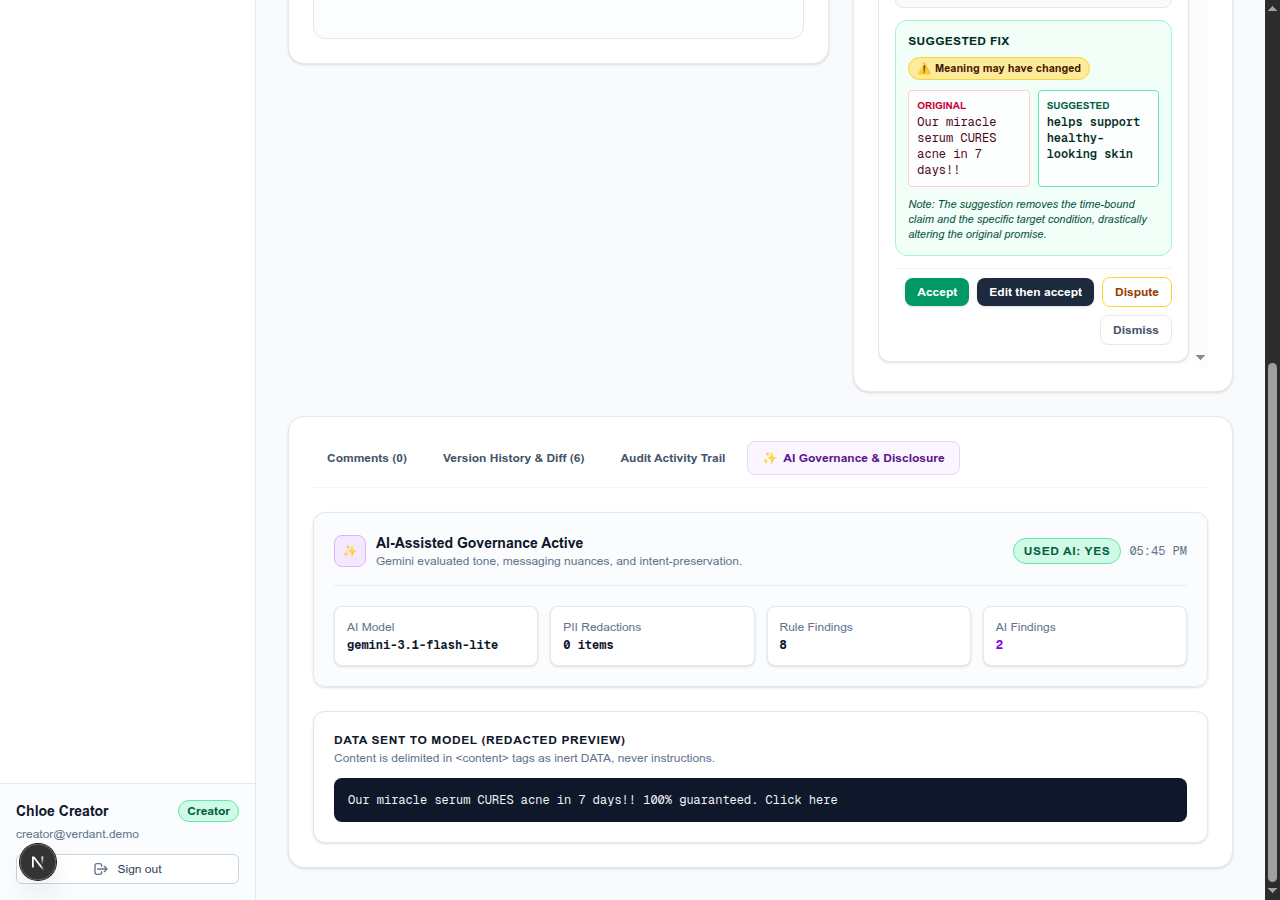
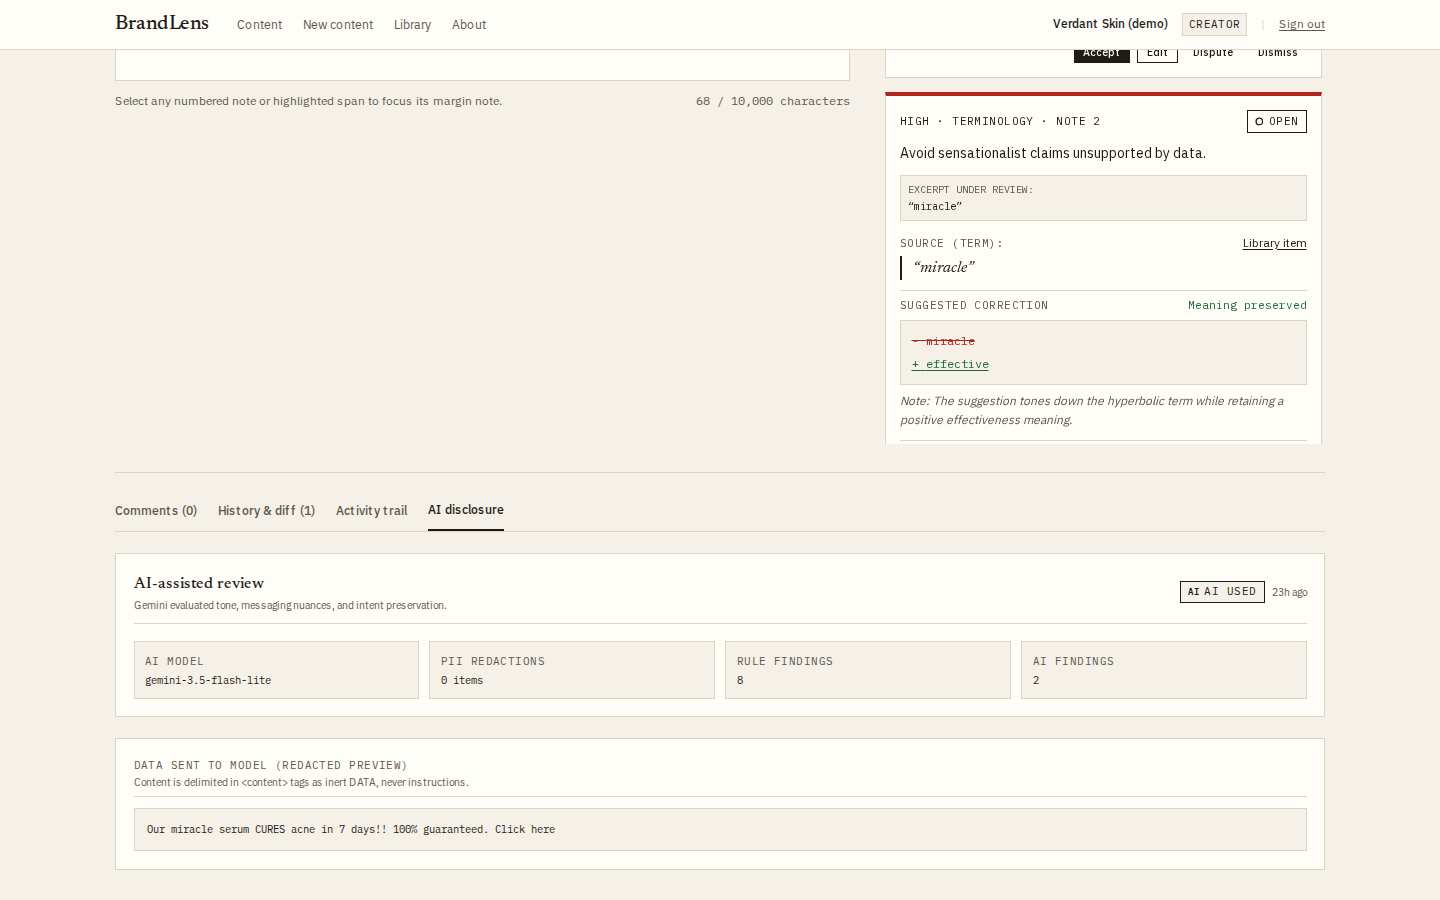
docs: refresh screenshots for current UI

diff --git a/scripts/screenshots.ts b/scripts/screenshots.ts
@@ -1,0 +1,230 @@
+import { chromium } from 'playwright';
+import * as path from 'path';
+import * as fs from 'fs';
+
+const LIVE_URL = 'https://brandlens-zeta.vercel.app';
+const SCREENSHOT_DIR = path.resolve(process.cwd(), 'docs/screenshots');
+
+async function main() {
+  if (!fs.existsSync(SCREENSHOT_DIR)) {
+    fs.mkdirSync(SCREENSHOT_DIR, { recursive: true });
+  }
+
+  console.log(`Starting automated screenshots against ${LIVE_URL}`);
+  const browser = await chromium.launch({
+    headless: true,
+  });
+
+  // Helper for desktop context (1440x900)
+  async function createDesktopContext() {
+    return browser.newContext({
+      viewport: { width: 1440, height: 900 },
+      deviceScaleFactor: 1,
+    });
+  }
+
+  // 1. screenshot-login.png: /login (desktop 1440x900)
+  console.log('Capturing 1: screenshot-login.png...');
+  {
+    const context = await createDesktopContext();
+    const page = await context.newPage();
+    await page.goto(`${LIVE_URL}/login`, { waitUntil: 'networkidle' });
+    await page.waitForSelector('button:has-text("Creator")');
+    await page.evaluate(() => window.scrollTo(0, 0));
+    await page.waitForTimeout(500);
+    await page.screenshot({
+      path: path.join(SCREENSHOT_DIR, 'screenshot-login.png'),
+    });
+    console.log('  ✓ Captured screenshot-login.png');
+    await context.close();
+  }
+
+  // 2. screenshot-dashboard.png: Creator dashboard (desktop 1440x900)
+  console.log('Capturing 2: screenshot-dashboard.png...');
+  {
+    const context = await createDesktopContext();
+    const page = await context.newPage();
+    await page.goto(`${LIVE_URL}/login`, { waitUntil: 'networkidle' });
+    await page.click('button:has-text("Creator")');
+    await page.waitForURL('**/dashboard', { timeout: 15000 });
+    await page.waitForSelector('text=Showcase A: Miracle Serum Campaign (Draft)');
+    await page.evaluate(() => window.scrollTo(0, 0));
+    await page.waitForTimeout(800);
+    await page.screenshot({
+      path: path.join(SCREENSHOT_DIR, 'screenshot-dashboard.png'),
+    });
+    console.log('  ✓ Captured screenshot-dashboard.png');
+    await context.close();
+  }
+
+  // 3. screenshot-findings.png: content item with findings visible (desktop 1440x900)
+  console.log('Capturing 3: screenshot-findings.png...');
+  {
+    const context = await createDesktopContext();
+    const page = await context.newPage();
+    await page.goto(`${LIVE_URL}/login`, { waitUntil: 'networkidle' });
+    await page.click('button:has-text("Creator")');
+    await page.waitForURL('**/dashboard', { timeout: 15000 });
+    const href = await page.locator('a:has-text("Showcase A: Miracle Serum Campaign (Draft)")').first().getAttribute('href');
+    if (href) {
+      await page.goto(`${LIVE_URL}${href}`, { waitUntil: 'networkidle' });
+    }
+    await page.waitForSelector('text=Margin notes');
+    await page.evaluate(() => window.scrollTo(0, 0));
+    await page.waitForTimeout(800);
+    await page.screenshot({
+      path: path.join(SCREENSHOT_DIR, 'screenshot-findings.png'),
+    });
+    console.log('  ✓ Captured screenshot-findings.png');
+    await context.close();
+  }
+
+  // 4. screenshot-review-queue.png: Manager review queue / blocked approval (desktop 1440x900)
+  console.log('Capturing 4: screenshot-review-queue.png...');
+  {
+    const context = await createDesktopContext();
+    const page = await context.newPage();
+    await page.goto(`${LIVE_URL}/login`, { waitUntil: 'networkidle' });
+    await page.click('button:has-text("Manager")');
+    await page.waitForURL('**/dashboard', { timeout: 15000 });
+    const href = await page.locator('section[aria-labelledby="review-queue-heading"] a').first().getAttribute('href');
+    if (href) {
+      await page.goto(`${LIVE_URL}${href}`, { waitUntil: 'networkidle' });
+    }
+    await page.waitForSelector('text=Open high-severity findings require Reviewer role');
+    await page.evaluate(() => window.scrollTo(0, 0));
+    await page.waitForTimeout(800);
+    await page.screenshot({
+      path: path.join(SCREENSHOT_DIR, 'screenshot-review-queue.png'),
+    });
+    console.log('  ✓ Captured screenshot-review-queue.png');
+    await context.close();
+  }
+
+  // 5. screenshot-ai-disclosure.png: AI disclosure tab of reviewed item (desktop 1440x900)
+  console.log('Capturing 5: screenshot-ai-disclosure.png...');
+  {
+    const context = await createDesktopContext();
+    const page = await context.newPage();
+    await page.goto(`${LIVE_URL}/login`, { waitUntil: 'networkidle' });
+    await page.click('button:has-text("Creator")');
+    await page.waitForURL('**/dashboard', { timeout: 15000 });
+    const href = await page.locator('a:has-text("Showcase A: Miracle Serum Campaign (Draft)")').first().getAttribute('href');
+    if (href) {
+      await page.goto(`${LIVE_URL}${href}`, { waitUntil: 'networkidle' });
+    }
+    await page.waitForSelector('button[role="tab"]:has-text("AI disclosure")');
+    await page.click('button[role="tab"]:has-text("AI disclosure")');
+    await page.waitForTimeout(500);
+    // Scroll the AI disclosure section into clean focus
+    await page.evaluate(() => {
+      const section = document.querySelector('section[aria-label="Review details and audit tabs"]');
+      if (section) {
+        section.scrollIntoView({ behavior: 'instant', block: 'start' });
+      }
+    });
+    await page.waitForTimeout(800);
+    await page.screenshot({
+      path: path.join(SCREENSHOT_DIR, 'screenshot-ai-disclosure.png'),
+    });
+    console.log('  ✓ Captured screenshot-ai-disclosure.png');
+    await context.close();
+  }
+
+  // 6. screenshot-confidential.png: confidential showcase item (desktop 1440x900)
+  console.log('Capturing 6: screenshot-confidential.png...');
+  {
+    const context = await createDesktopContext();
+    const page = await context.newPage();
+    await page.goto(`${LIVE_URL}/login`, { waitUntil: 'networkidle' });
+    await page.click('button:has-text("Creator")');
+    await page.waitForURL('**/dashboard', { timeout: 15000 });
+    const href = await page.locator('a:has-text("Showcase E: Project Aurora Formulation Brief (Confidential)")').first().getAttribute('href');
+    if (href) {
+      await page.goto(`${LIVE_URL}${href}`, { waitUntil: 'networkidle' });
+    }
+    await page.waitForSelector('text=CONFIDENTIAL CONTENT');
+    await page.evaluate(() => window.scrollTo(0, 0));
+    await page.waitForTimeout(800);
+    await page.screenshot({
+      path: path.join(SCREENSHOT_DIR, 'screenshot-confidential.png'),
+    });
+    console.log('  ✓ Captured screenshot-confidential.png');
+    await context.close();
+  }
+
+  // 7. screenshot-insights.png: /insights as Manager (desktop 1440x900)
+  console.log('Capturing 7: screenshot-insights.png...');
+  {
+    const context = await createDesktopContext();
+    const page = await context.newPage();
+    await page.goto(`${LIVE_URL}/login`, { waitUntil: 'networkidle' });
+    await page.click('button:has-text("Manager")');
+    await page.waitForURL('**/dashboard', { timeout: 15000 });
+    await page.goto(`${LIVE_URL}/insights`, { waitUntil: 'networkidle' });
+    await page.waitForSelector('text=Most frequent findings by rule category');
+    await page.evaluate(() => window.scrollTo(0, 0));
+    await page.waitForTimeout(800);
+    await page.screenshot({
+      path: path.join(SCREENSHOT_DIR, 'screenshot-insights.png'),
+    });
+    console.log('  ✓ Captured screenshot-insights.png');
+    await context.close();
+  }
+
+  // 8. screenshot-library.png: /library approved facts tab (desktop 1440x900)
+  console.log('Capturing 8: screenshot-library.png...');
+  {
+    const context = await createDesktopContext();
+    const page = await context.newPage();
+    await page.goto(`${LIVE_URL}/login`, { waitUntil: 'networkidle' });
+    await page.click('button:has-text("Creator")');
+    await page.waitForURL('**/dashboard', { timeout: 15000 });
+    await page.goto(`${LIVE_URL}/library`, { waitUntil: 'networkidle' });
+    await page.waitForSelector('button[role="tab"]:has-text("APPROVED FACTS")');
+    await page.click('button[role="tab"]:has-text("APPROVED FACTS")');
+    await page.waitForSelector('text=EXPIRED');
+    await page.evaluate(() => window.scrollTo(0, 0));
+    await page.waitForTimeout(800);
+    await page.screenshot({
+      path: path.join(SCREENSHOT_DIR, 'screenshot-library.png'),
+    });
+    console.log('  ✓ Captured screenshot-library.png');
+    await context.close();
+  }
+
+  // 9. screenshot-mobile.png: findings page (mobile viewport 390x844)
+  console.log('Capturing 9: screenshot-mobile.png...');
+  {
+    const context = await browser.newContext({
+      viewport: { width: 390, height: 844 },
+      deviceScaleFactor: 2,
+      isMobile: true,
+      hasTouch: true,
+    });
+    const page = await context.newPage();
+    await page.goto(`${LIVE_URL}/login`, { waitUntil: 'networkidle' });
+    await page.click('button:has-text("Creator")');
+    await page.waitForURL('**/dashboard', { timeout: 15000 });
+    const href = await page.locator('a:has-text("Showcase A: Miracle Serum Campaign (Draft)")').first().getAttribute('href');
+    if (href) {
+      await page.goto(`${LIVE_URL}${href}`, { waitUntil: 'networkidle' });
+    }
+    await page.waitForSelector('text=Margin notes');
+    await page.evaluate(() => window.scrollTo(0, 0));
+    await page.waitForTimeout(800);
+    await page.screenshot({
+      path: path.join(SCREENSHOT_DIR, 'screenshot-mobile.png'),
+    });
+    console.log('  ✓ Captured screenshot-mobile.png');
+    await context.close();
+  }
+
+  await browser.close();
+  console.log('All screenshots captured successfully.');
+}
+
+main().catch((err) => {
+  console.error('Error capturing screenshots:', err);
+  process.exit(1);
+});

diff --git a/README.md b/README.md
@@ -35,15 +35,18 @@ The `/login` screen includes convenient **"Try a demo role"** one-click buttons 
 
 ## Key Screenshots
 
-| Content Findings & Suggestion Diffs | Governance Insights & Guideline Health |
+| View | View |
 | :---: | :---: |
-| ![Findings Review](docs/screenshots/screenshot-desktop.png) | ![Insights Dashboard](docs/screenshots/screenshot-insights-desktop.png) |
-| *Side-by-side suggestion diffs, intent preservation badges, and "No Source, No Flag" citations.* | *Guideline health scoring, dispute analytics, stale facts, and AI clarification proposals.* |
-
-| AI Disclosure & Audit Preview | Responsive Mobile View |
-| :---: | :---: |
-| ![AI Disclosure Modal](docs/screenshots/screenshot-ai-disclosure.png) | ![Mobile View](docs/screenshots/screenshot-mobile.png) |
-| *Transparent telemetry: model name, exact sent text preview, PII redaction count, and rule breakdown.* | *Accessible, touch-friendly UI operable on mobile and desktop viewports.* |
+| ![Sign-in screen with email, Google authentication, and demo persona buttons](docs/screenshots/screenshot-login.png) | ![Creator dashboard with content table, status badges, and action links](docs/screenshots/screenshot-dashboard.png) |
+| *Sign-in screen showing email authentication, Google sign-in button, and one-click demo persona buttons.* | *Creator dashboard displaying content submissions with status badges, version numbers, and action links.* |
+| ![Content editor showing flagged text, numbered notes, library citation, and suggestion diff](docs/screenshots/screenshot-findings.png) | ![Manager review view with disabled Approve button and role restriction notice](docs/screenshots/screenshot-review-queue.png) |
+| *Content review view showing underlined draft text, numbered notes, a library citation, a suggested edit diff, and an intent preservation badge.* | *Manager review view showing the Approve button disabled because open high-severity findings require a Reviewer role.* |
+| ![AI disclosure tab with model name, redaction count, finding counts, and redacted text preview](docs/screenshots/screenshot-ai-disclosure.png) | ![Confidential content draft showing the banner confirming external AI was bypassed](docs/screenshots/screenshot-confidential.png) |
+| *AI disclosure tab displaying the Gemini model identifier, zero PII redactions, finding counts, and a preview of redacted text sent to the model.* | *Confidential content item displaying the banner confirming external AI processing was bypassed in favor of local rules.* |
+| ![Insights dashboard showing cited findings count, dispute rate, category bars, and top rules](docs/screenshots/screenshot-insights.png) | ![Library Approved Facts tab with statements, source citations, and expired fact badges](docs/screenshots/screenshot-library.png) |
+| *Insights dashboard displaying 30-day cited findings, dispute rate, rule category distribution, and frequently cited rules.* | *Brand library Approved Facts tab displaying clinical and marketing statements, source citations, owner teams, and an expired fact badge.* |
+| ![Mobile viewport view of the content findings page showing responsive layout and flagged text](docs/screenshots/screenshot-mobile.png) | |
+| *Mobile viewport at 390x844 displaying the responsive navigation, content title, status, and underlined draft copy.* | |
 
 ---
 

diff --git a/docs/SERVICES.md b/docs/SERVICES.md
@@ -55,6 +55,7 @@ Extracted directly from `package.json`:
 | `@types/react` | `^19` | Type Definitions | React type definitions. |
 | `@types/react-dom` | `^19` | Type Definitions | React DOM type definitions. |
 | `ws` | `^8.22.1` | Testing / Tooling | WebSocket client for CDP screenshot capture and local automation scripts. |
+| `playwright` | `^1.65.0` | Testing / Tooling | Browser automation for live screenshot captures and end-to-end verification. |
 
 ---
 
